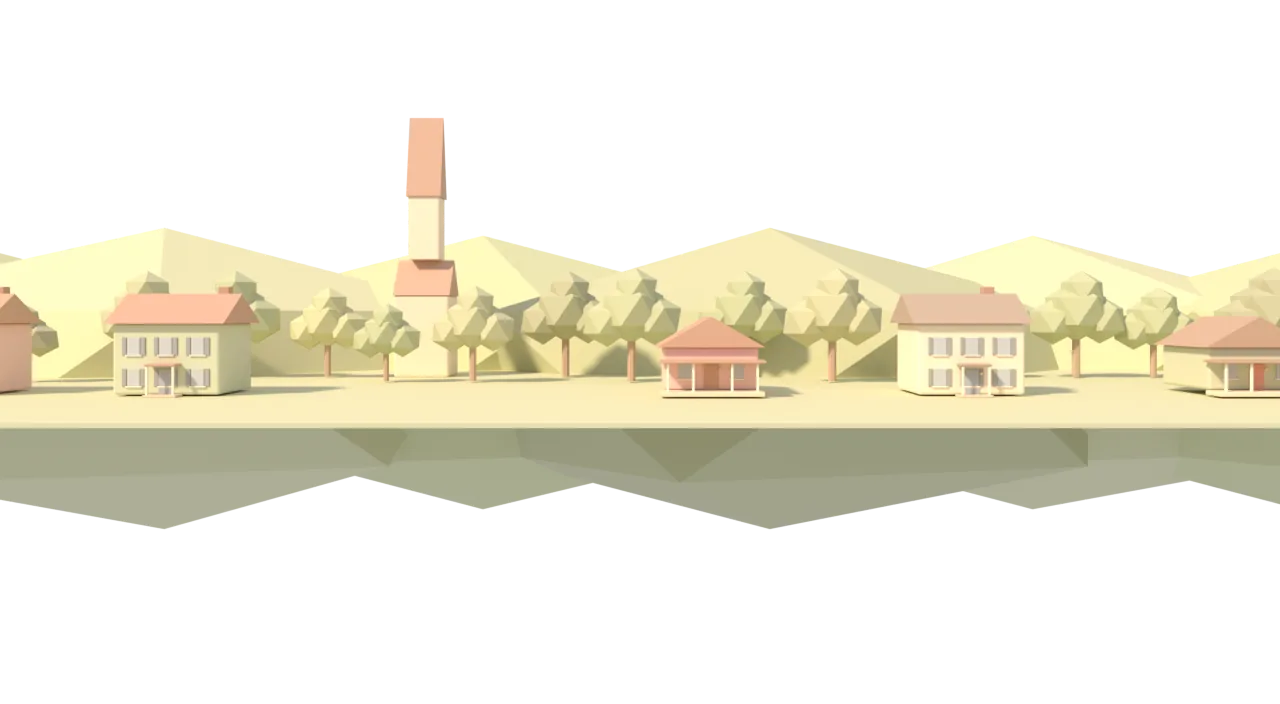
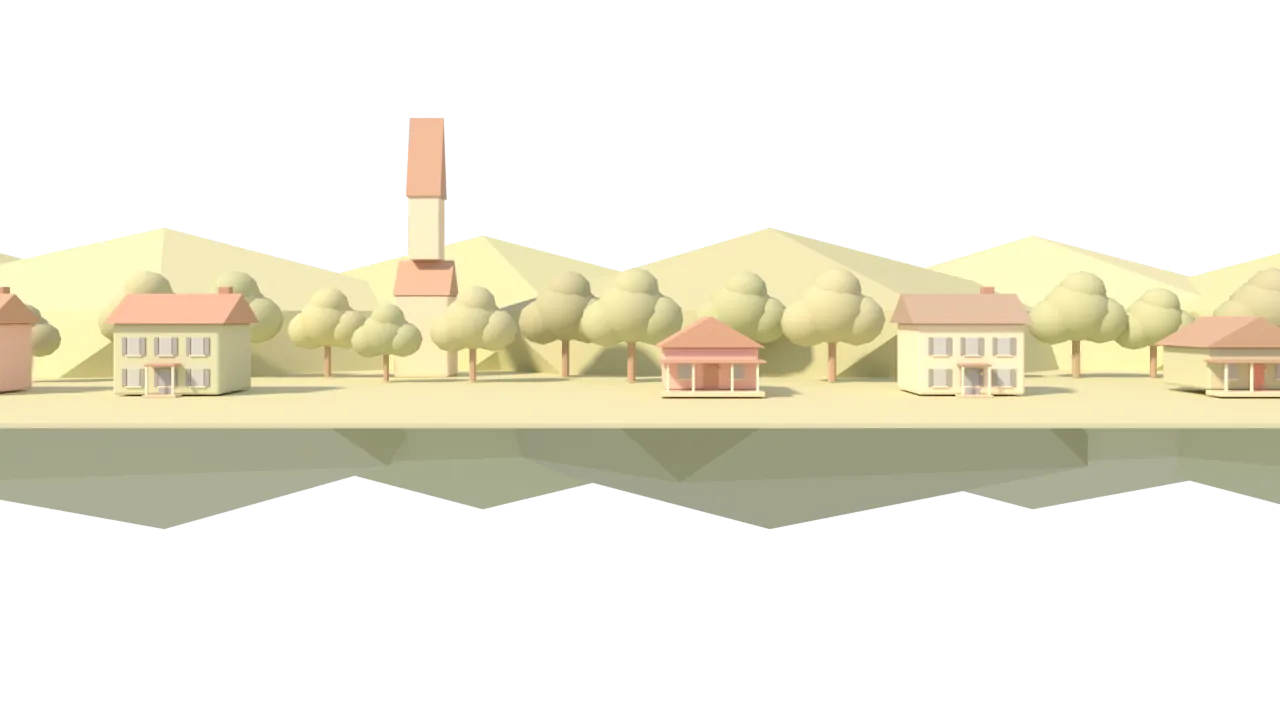
feat(ios): suburb diorama gets a near hedge layer, a moon and stars, rounder trees

diff --git a/tools/scene-bake/city_diorama.py b/tools/scene-bake/city_diorama.py
@@ -29,7 +29,7 @@ def option(name, default):
 SAMPLES = int(option("--samples", 96))
 WIDTH = int(option("--width", 1280))
 HEIGHT = WIDTH * 11 // 20
-ONLY = option("--only", "sky,far,mid,street,cars").split(",")
+ONLY = option("--only", "sky,far,mid,street,near,cars").split(",")
 
 # Where the cross street opens in the row of buildings, and the street the cars drive on (world units, metres).
 GAP_X = 3.0
@@ -153,12 +153,16 @@ def cyl(layer, radius, height, at, mat, verts=8, bevel=0.0):
     return add(layer, "cyl", mesh, (at[0], at[1], at[2] + height / 2), mat)
 
 
-def blob(layer, radius, at, mat, scale=(1, 1, 1)):
+def blob(layer, radius, at, mat, scale=(1, 1, 1), soft=False):
+    """A low-poly ball; `soft` rounds it (more cuts, smooth shading) for canopies and hedges."""
     bm = bmesh.new()
-    bmesh.ops.create_icosphere(bm, subdivisions=1, radius=radius)
+    bmesh.ops.create_icosphere(bm, subdivisions=2 if soft else 1, radius=radius)
     mesh = bpy.data.meshes.new("blob")
     bm.to_mesh(mesh)
     bm.free()
+    if soft:
+        for p in mesh.polygons:
+            p.use_smooth = True
     return add(layer, "blob", mesh, at, mat, scale=scale)
 
 
@@ -265,11 +269,11 @@ def tree(layer, x, y, scale=1.0, haze=0.0, tone=None):
     leaf = material(colour, haze=haze)
     cyl(layer, 0.32 * scale, 3.2 * scale, (x, y, 0.15), trunk, verts=7)
     for dx, dy, dz, r in ((0, 0, 5.6, 2.8), (-1.9, 0.2, 4.7, 2.1), (1.9, -0.2, 4.9, 2.2), (0.3, -0.6, 7.2, 1.9)):
-        blob(layer, r * scale, (x + dx * scale, y + dy, dz * scale), leaf, (1, 1, 0.92))
+        blob(layer, r * scale, (x + dx * scale, y + dy, dz * scale), leaf, (1, 1, 0.92), soft=True)
 
 
 def bush(layer, x, y, r=0.9, tone=0x6F8A4E, haze=0.0):
-    blob(layer, r, (x, y, r * 0.6), material(tone, haze=haze), (1.2, 1, 0.85))
+    blob(layer, r, (x, y, r * 0.6), material(tone, haze=haze), (1.2, 1, 0.85), soft=True)
 
 
 def fence(layer, x0, x1, y, haze=0.0):
@@ -379,11 +383,19 @@ def build_street():
              tone=[0x93A86A, 0x7FA35F, 0xE3B45C, 0x6F8A4E][lot % 4] if lot != 2 else 0xD8653F)
     for lx in (-26, -1, 15, 30, 45):
         lamp("street", lx, r1 + 1.0)
-    for bx, by in ((-14, -12), (9, -12), (28, -12)):
-        box("street", (1.8, 0.7, 0.55), (bx, by, 0.18), material(WOOD), bevel=0.1)
-        box("street", (1.8, 0.12, 0.5), (bx, by + 0.3, 0.7), material(WOOD), bevel=0.04)
-    for hx in (-3, 19, 34):
-        bush("street", hx, -11.0, 0.9, 0x93A86A)
+
+
+def build_near():
+    """A trimmed hedge with a few flowers along the bottom edge, just outside the glass."""
+    y = -10.6
+    box("near", (80, 0.9, 0.9), (0, y, 0.0), material(0x6F8A4E, key="hedge"), bevel=0.25)
+    x = -38.0
+    while x < 38:
+        blob("near", 0.95, (x, y, 0.95), material(random.choice([0x6F8A4E, 0x7FA35F, 0x93A86A])), (1.2, 0.9, 0.9), soft=True)
+        if random.random() < 0.28:
+            blob("near", 0.16, (x + random.uniform(-0.3, 0.3), y - 0.75, 1.1 + random.uniform(0, 0.5)),
+                 material(random.choice([0xF4A7B4, 0xFBF1DE, 0xE3B45C, 0xE0554A])))
+        x += 1.5
 
 
 CARS_X = 0.0
@@ -445,6 +457,19 @@ def build_cars():
     add("cars", "catch", mesh, (15, 0, 0), material(0xFFFFFF)).is_shadow_catcher = True
 
 
+def build_sky():
+    """The night's moon and a few stars, far beyond everything else."""
+    if TIME != "night":
+        return
+    moon = material(0xFFF3D6, glow=6, glow_color=0xFFF3D6, key="moon")
+    blob("skyobj", 7.0, (-62, 300, 82), moon, soft=True)
+    star = material(0xFFF3D6, glow=14, glow_color=0xFFF3D6, key="star")
+    rng = random.Random(7)
+    for _ in range(46):
+        r = rng.choice([0.35, 0.5, 0.65])
+        blob("skyobj", r, (rng.uniform(-170, 170), 300, rng.uniform(45, 120)), star)
+
+
 def world():
     w = bpy.data.worlds.new("w")
     w.use_nodes = True
@@ -495,6 +520,7 @@ def camera(kind):
         cam.shift_y = 0.0
         return
     cam.lens = 30
+    cam.clip_end = 1000
     cam.sensor_width = 36
     cam.sensor_fit = "HORIZONTAL"
     cam.shift_y = -0.03
@@ -563,11 +589,13 @@ def setup_cycles():
 os.makedirs(OUT, exist_ok=True)
 setup_cycles()
 world()
-if any(l in ONLY for l in ("far", "mid", "street", "sky")):
+if any(l in ONLY for l in ("far", "mid", "street", "near", "sky")):
     build_far()
     log('far built', len(bpy.data.objects))
     build_mid()
     build_street()
+    build_near()
+    build_sky()
     log('built', len(bpy.data.objects), f'{time.time() - T0:.0f}s')
     camera("street")
     import json
@@ -575,8 +603,8 @@ if any(l in ONLY for l in ("far", "mid", "street", "sky")):
     if "sky" in ONLY:
         for c in COLLECTIONS.values():
             c.hide_render = True
-        render(f"sky_{TIME}", [], transparent=False)
-    for layer in ("far", "mid", "street"):
+        render(f"sky_{TIME}", ["skyobj"], transparent=False)
+    for layer in ("far", "mid", "street", "near"):
         if layer in ONLY:
             render(f"{layer}_{TIME}", [layer])
 if "cars" in ONLY:

diff --git a/tools/scene-bake/manifest.py b/tools/scene-bake/manifest.py
@@ -15,6 +15,7 @@ manifest = {
         {"name": "far", "file": "far_{time}.webp", "follow": 0.2},
         {"name": "mid", "file": "mid_{time}.webp", "follow": 0.42},
         {"name": "street", "file": "street_{time}.webp", "follow": 0.62},
+        {"name": "near", "file": "near_{time}.webp", "follow": 0.85},
     ],
     "cars": {
         "file": "cars_{time}.webp",

diff --git a/tools/scene-bake/README.md b/tools/scene-bake/README.md
@@ -14,10 +14,11 @@ every side for parallax: `diorama.json`'s `visible` is the part the window shows
 
 | File | What |
 | --- | --- |
-| `sky_{day,dusk,night}.webp` | opaque gradient, no parallax |
+| `sky_{day,dusk,night}.webp` | opaque gradient (moon and stars at night), no parallax |
 | `far_*.webp` | hills, steeple, distant roofs and tree lines, parallax follow 0.2 (`ViewPlane.far`) |
 | `mid_*.webp` | the two rows of houses with lawns and driveways, the side street, follow 0.42 (`.middle`) |
 | `street_*.webp` | road, sidewalks, picket fences, mailboxes, front-yard trees, lamp posts, crossing, follow 0.62 (`.street`) |
+| `near_*.webp` | a hedge with flowers along the bottom edge, follow 0.85 (`.near`) |
 | `cars_*.webp` | 6 clay cars (sedan, SUV, pickup, twice) in one row (1280x213, six cells, all facing right); mirror them for the other direction |
 | `diorama.json` | sizes, visible rectangle, follow per layer, lanes and crossing |
 
